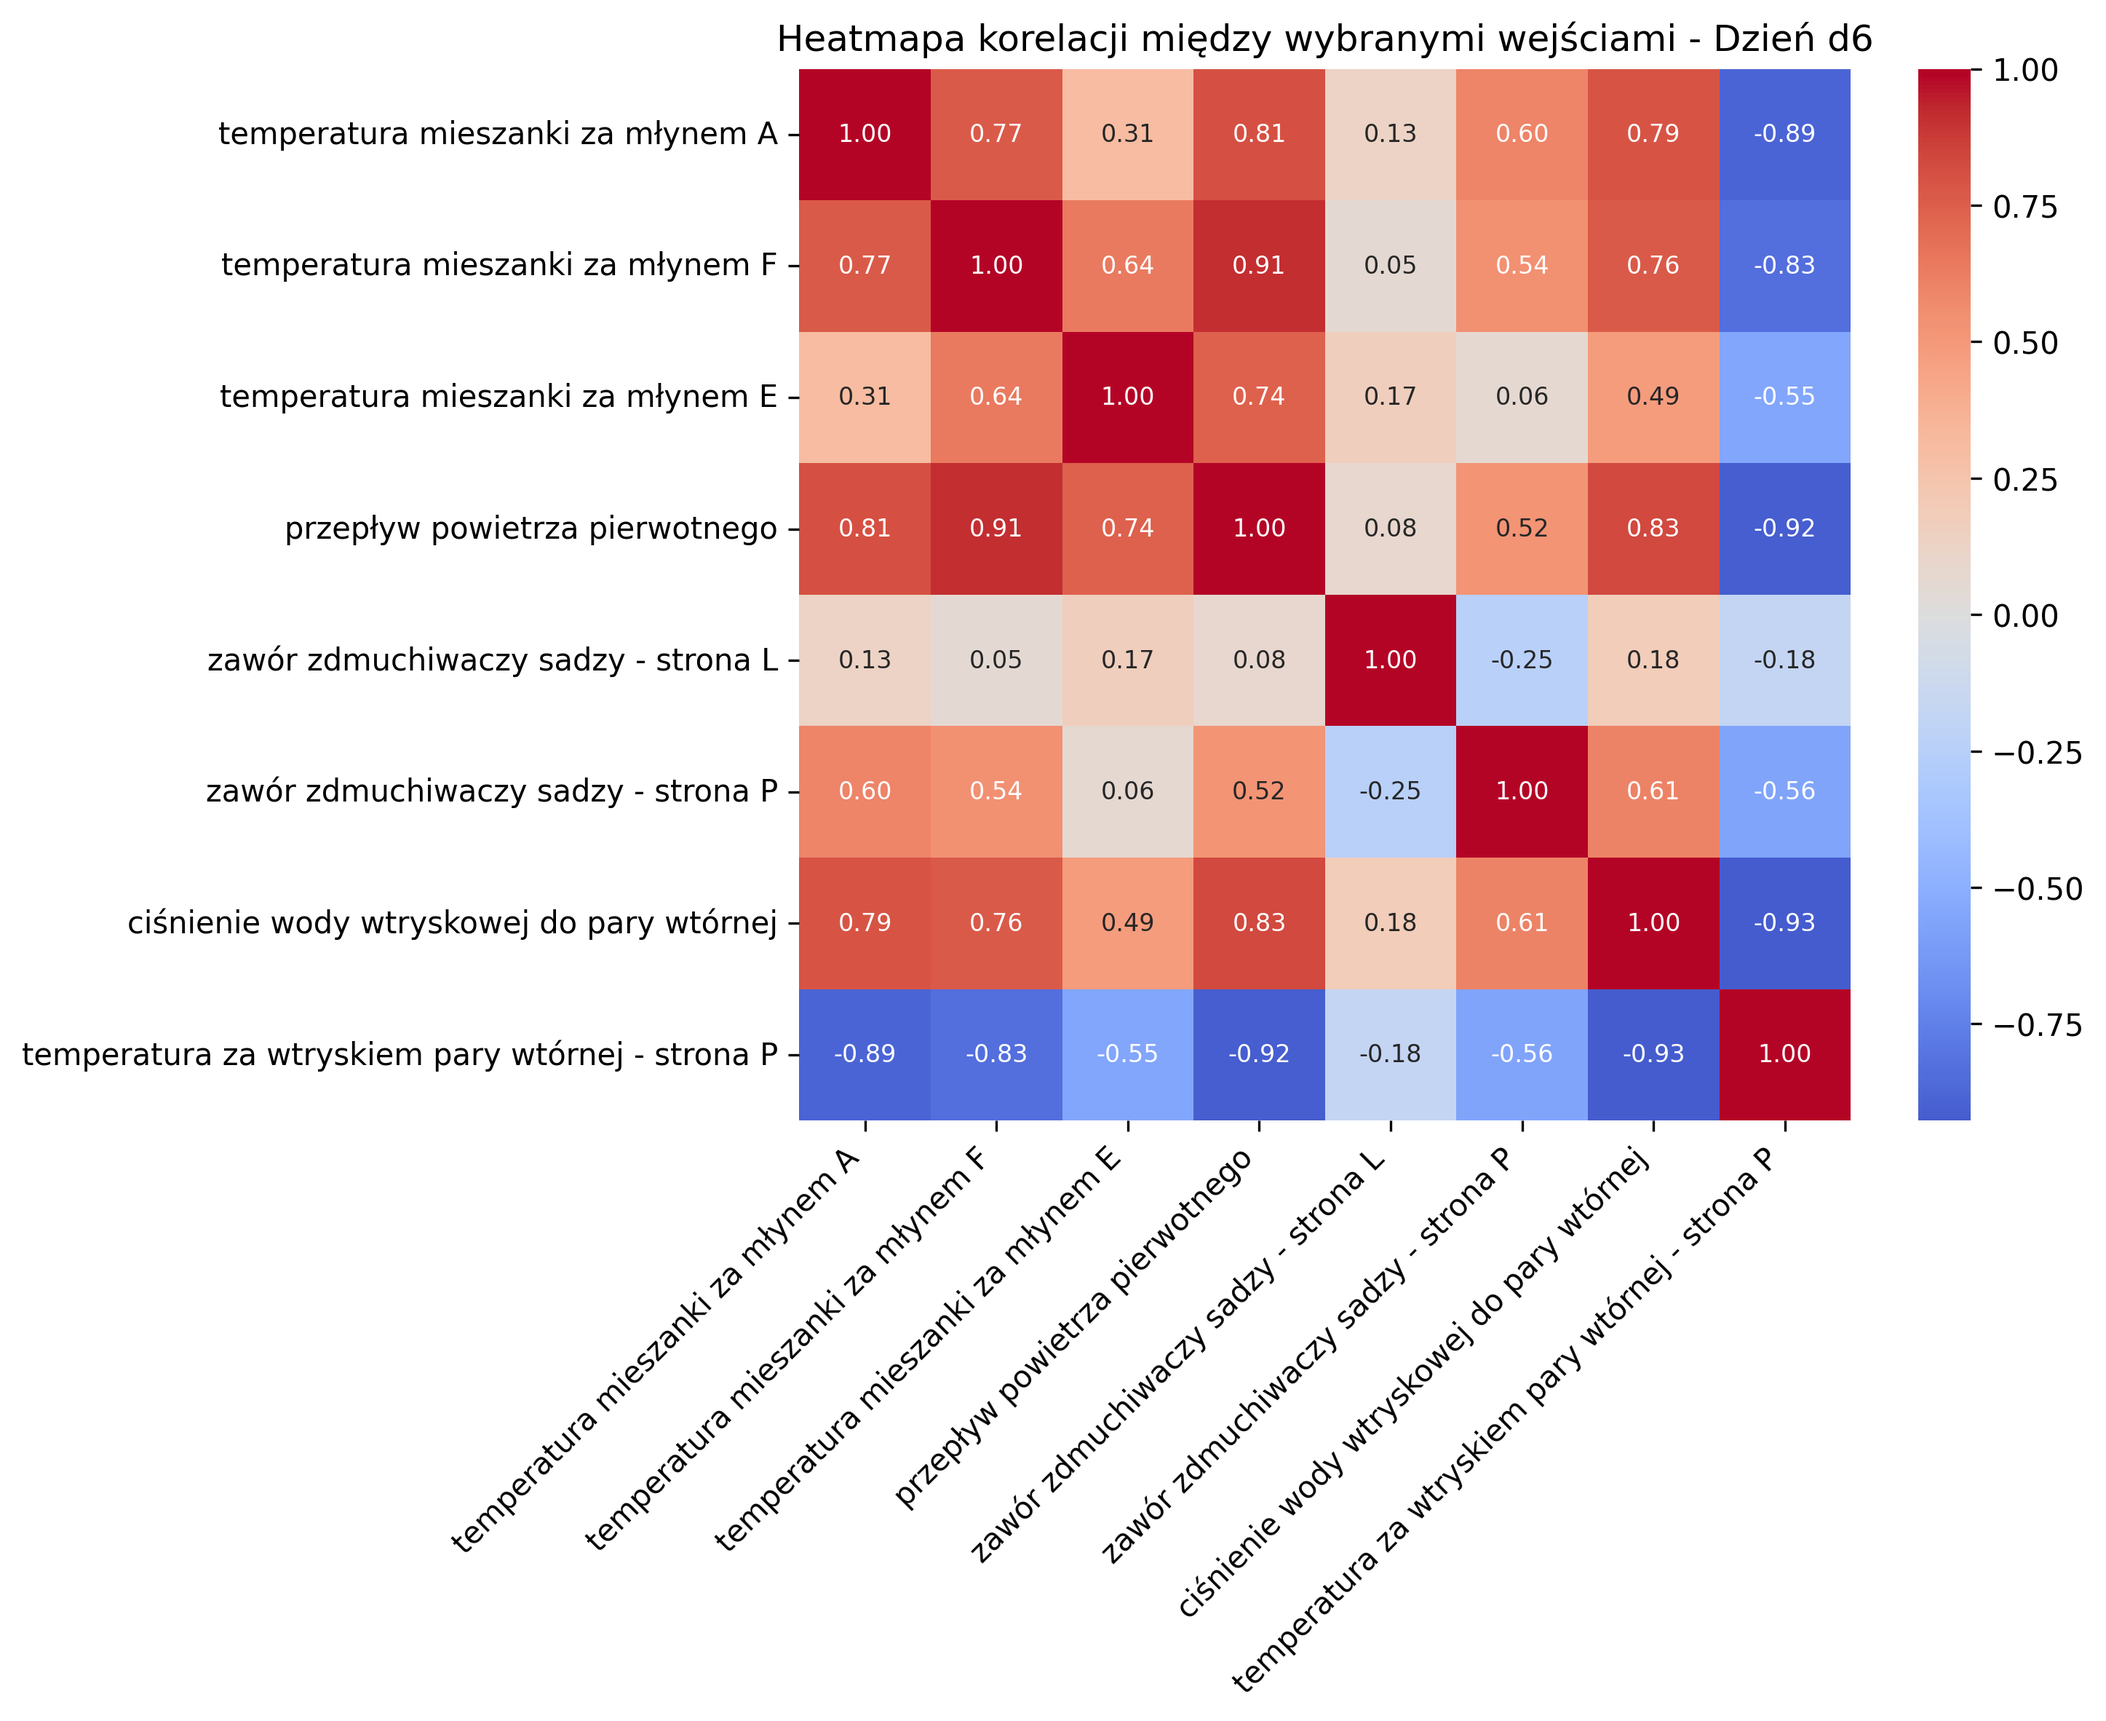
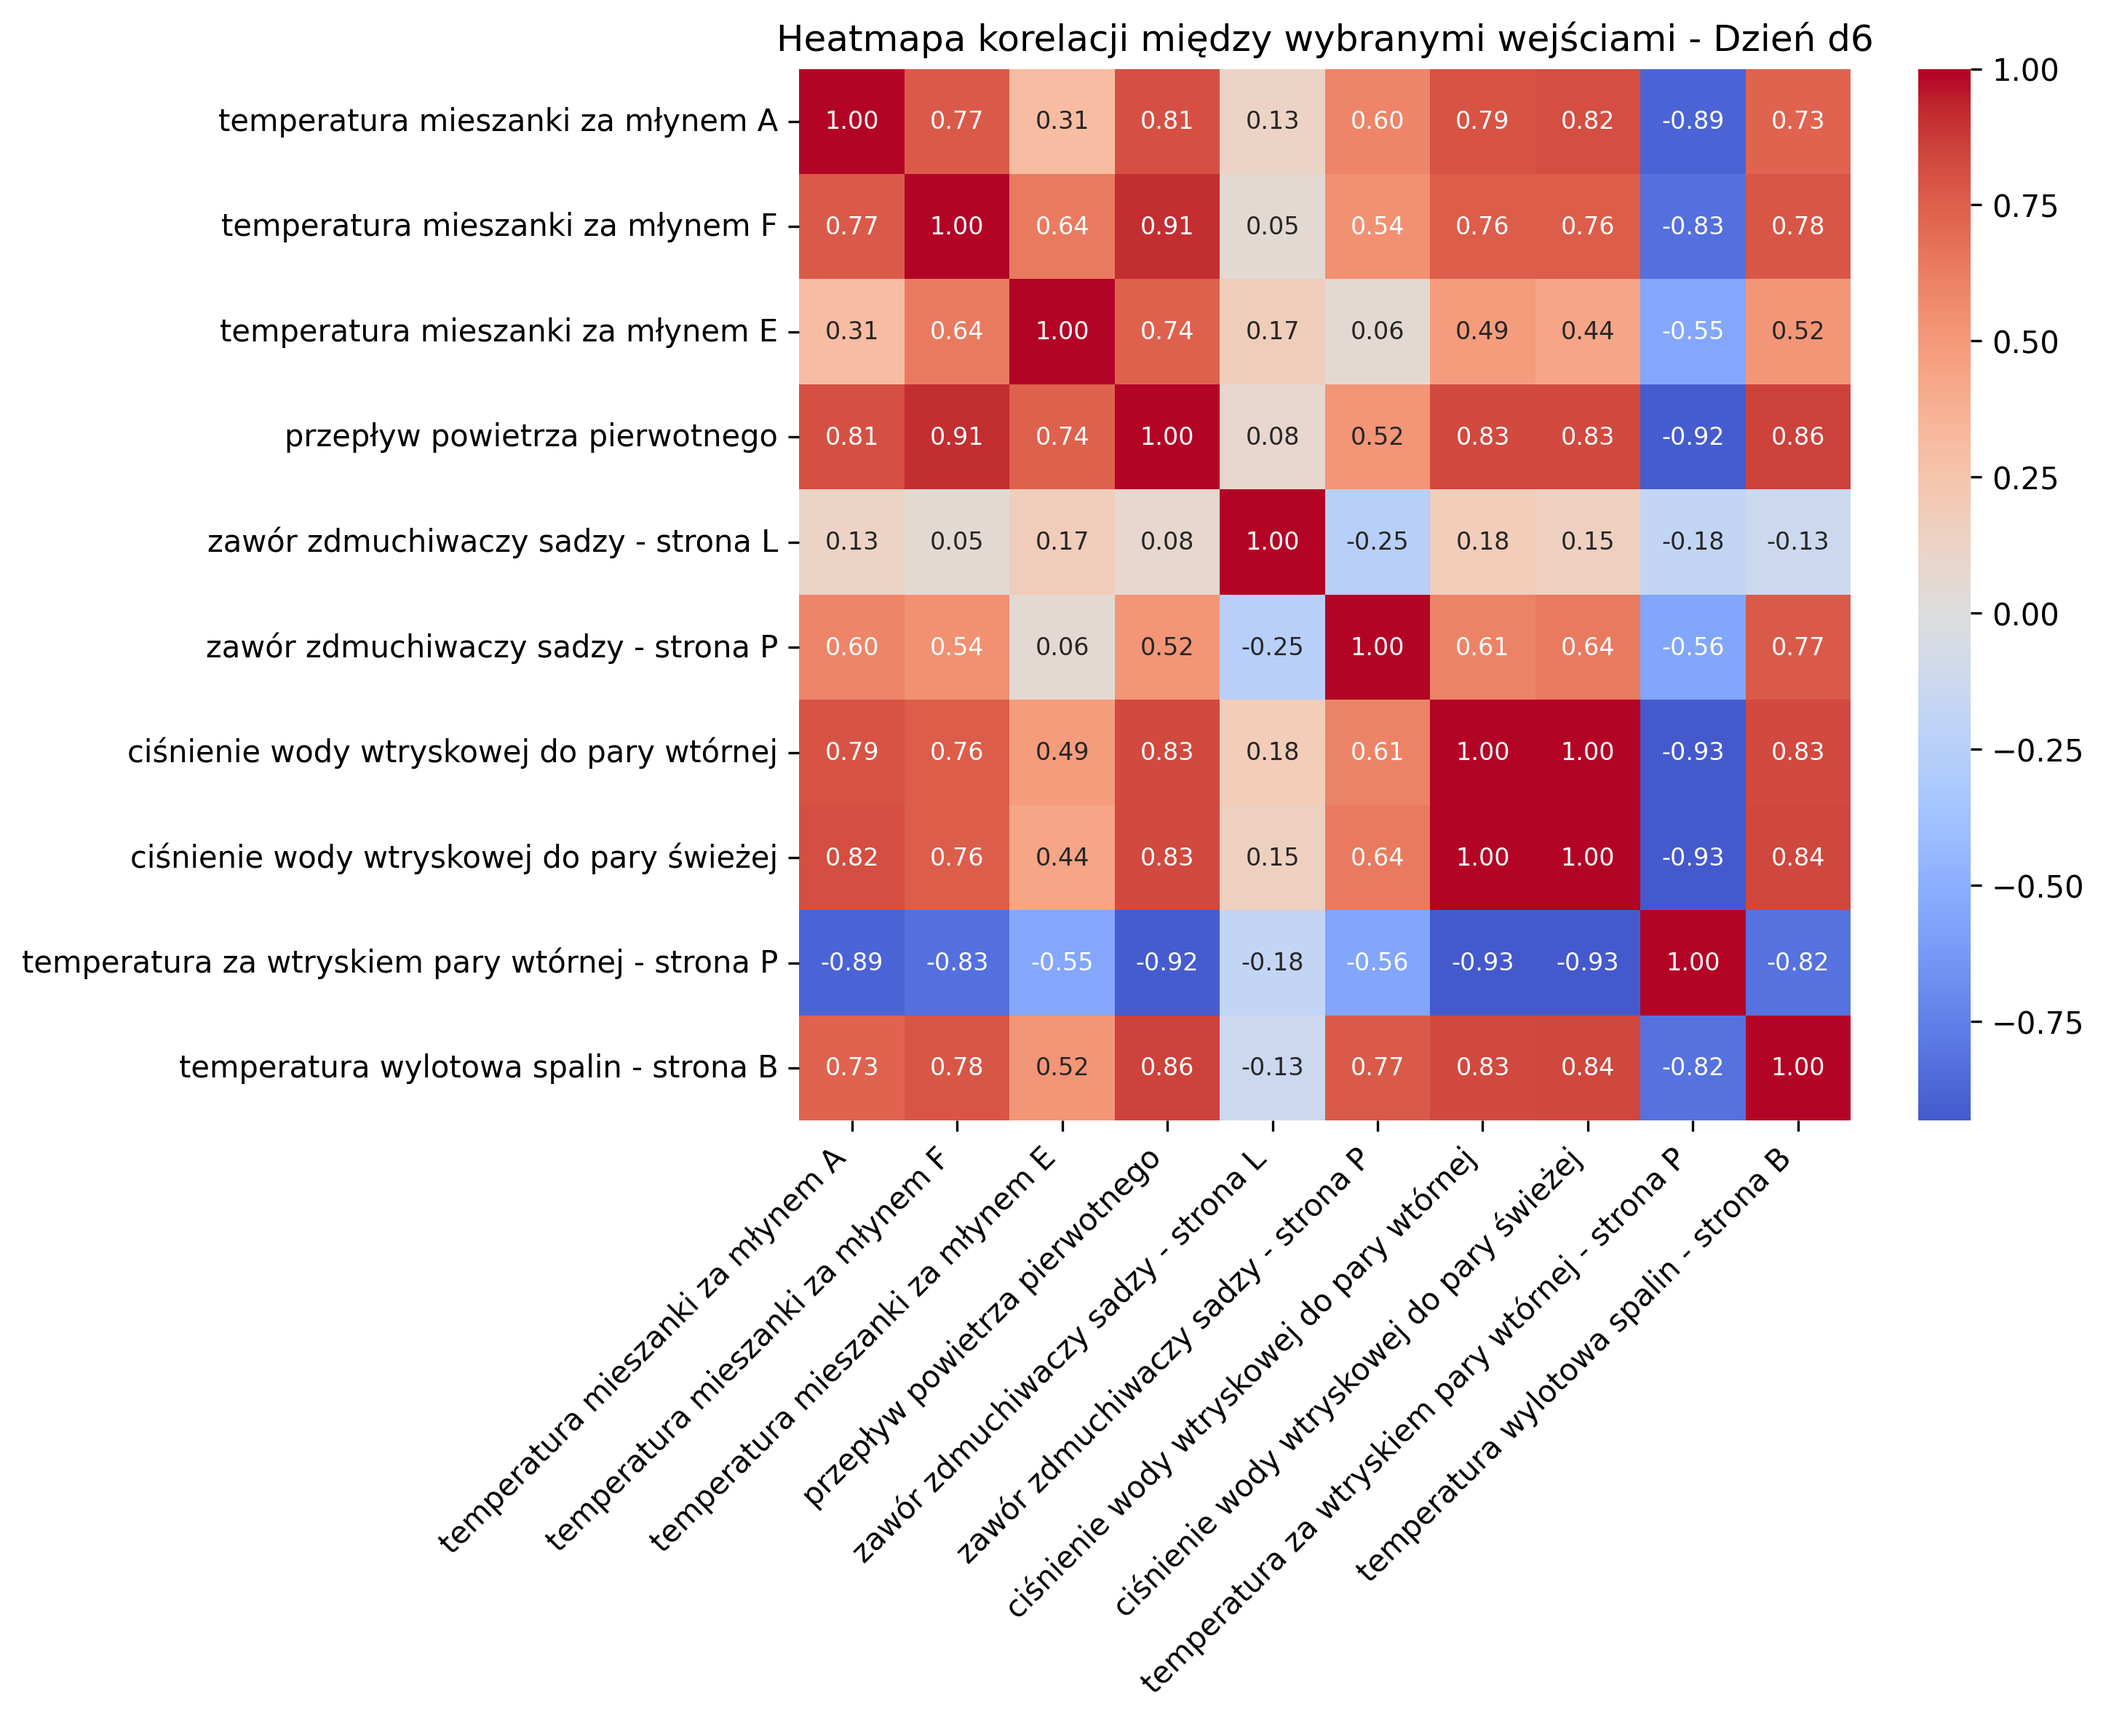
life is pain

diff --git a/src/main.py b/src/main.py
@@ -9,7 +9,7 @@ from id.eda import exploratory_data_analysis, plot_downsampled_data_comparison
 
 def main():
     # --- Config ---
-    MODEL_TYPE = "polynomial"  # "linear", "polynomial", "random_forest", "gradient_boosting"
+    MODEL_TYPE = "random_forest"  # "linear", "polynomial", "random_forest", "gradient_boosting"
     POLYNOMIAL_DEGREE = 4
     
     PLOT_RESULTS = True 
@@ -175,16 +175,28 @@ def main():
     df_for_modeling = combined_df.drop(columns=['Date/Time'], errors='ignore')
         
     features_target_A = [
-        "całkowity przepływ pary", "ciśnienie wody wtryskowej do pary wtórnej",
-        "klapy wentlatora podmuchu - strona A", "kąt wychylenia palnika róg #2",
-        "przepływ węgla do młyna B", "temperatura wlotowa powietrza - strona A"
+        # "temperatura mieszanki za młynem A", "temperatura mieszanki za młynem F", 
+        # "temperatura mieszanki za młynem E",
+        "kąt wychylenia palnika róg #1", "kąt wychylenia palnika róg #2", 
+        "kąt wychylenia palnika róg #3", "kąt wychylenia palnika róg #4",
+        "klapy wentylatora podmuchu - strona A", "klapy wentylatora podmuchu - strona B", # Dodaję obie dla pewności
+        "przepływ powietrza pierwotnego",
+        "ciśnienie wody wtryskowej do pary świeżej",
+        "temperatura za wtryskiem pary wtórnej - strona L", 
+        "temperatura za wtryskiem pary wtórnej - strona P"
     ]
     target_A = "temperatura wylotowa spalin - strona A"
 
     features_target_B = [
-        "całkowity przepływ pary", "ciśnienie wody wtryskowej do pary wtórnej",
-        "ciśnienie wody wtryskowej do pary świeżej", "przepływ powietrza pierwotnego",
-        "przepływ węgla do młyna E", "tlen w spalinach - strona B"
+        # "temperatura mieszanki za młynem A", "temperatura mieszanki za młynem F", 
+        # "temperatura mieszanki za młynem E",
+        "kąt wychylenia palnika róg #1", "kąt wychylenia palnika róg #2", 
+        "kąt wychylenia palnika róg #3", "kąt wychylenia palnika róg #4",
+        "klapy wentylatora podmuchu - strona A", "klapy wentylatora podmuchu - strona B", # Dodaję obie dla pewności
+        "przepływ powietrza pierwotnego",
+        "ciśnienie wody wtryskowej do pary świeżej",
+        "temperatura za wtryskiem pary wtórnej - strona L", 
+        "temperatura za wtryskiem pary wtórnej - strona P"
     ]
     target_B = "temperatura wylotowa spalin - strona B"
 

diff --git a/src/id/top_heatmap.py b/src/id/top_heatmap.py
@@ -153,8 +153,11 @@ def main():
         "przepływ powietrza pierwotnego",
         "zawór zdmuchiwaczy sadzy - strona L", "zawór zdmuchiwaczy sadzy - strona P",
         "ciśnienie wody wtryskowej do pary wtórnej",
+        # "ciśnienie wody wtryskowej do pary świeżej",
         "temperatura za wtryskiem pary wtórnej - strona L", 
-        "temperatura za wtryskiem pary wtórnej - strona P"
+        "temperatura za wtryskiem pary wtórnej - strona P",
+        "temperatura wylotowa spalin - strona A",
+        "temperatura wylotowa spalin - strona B"
     ]
     
     target_columns = [
